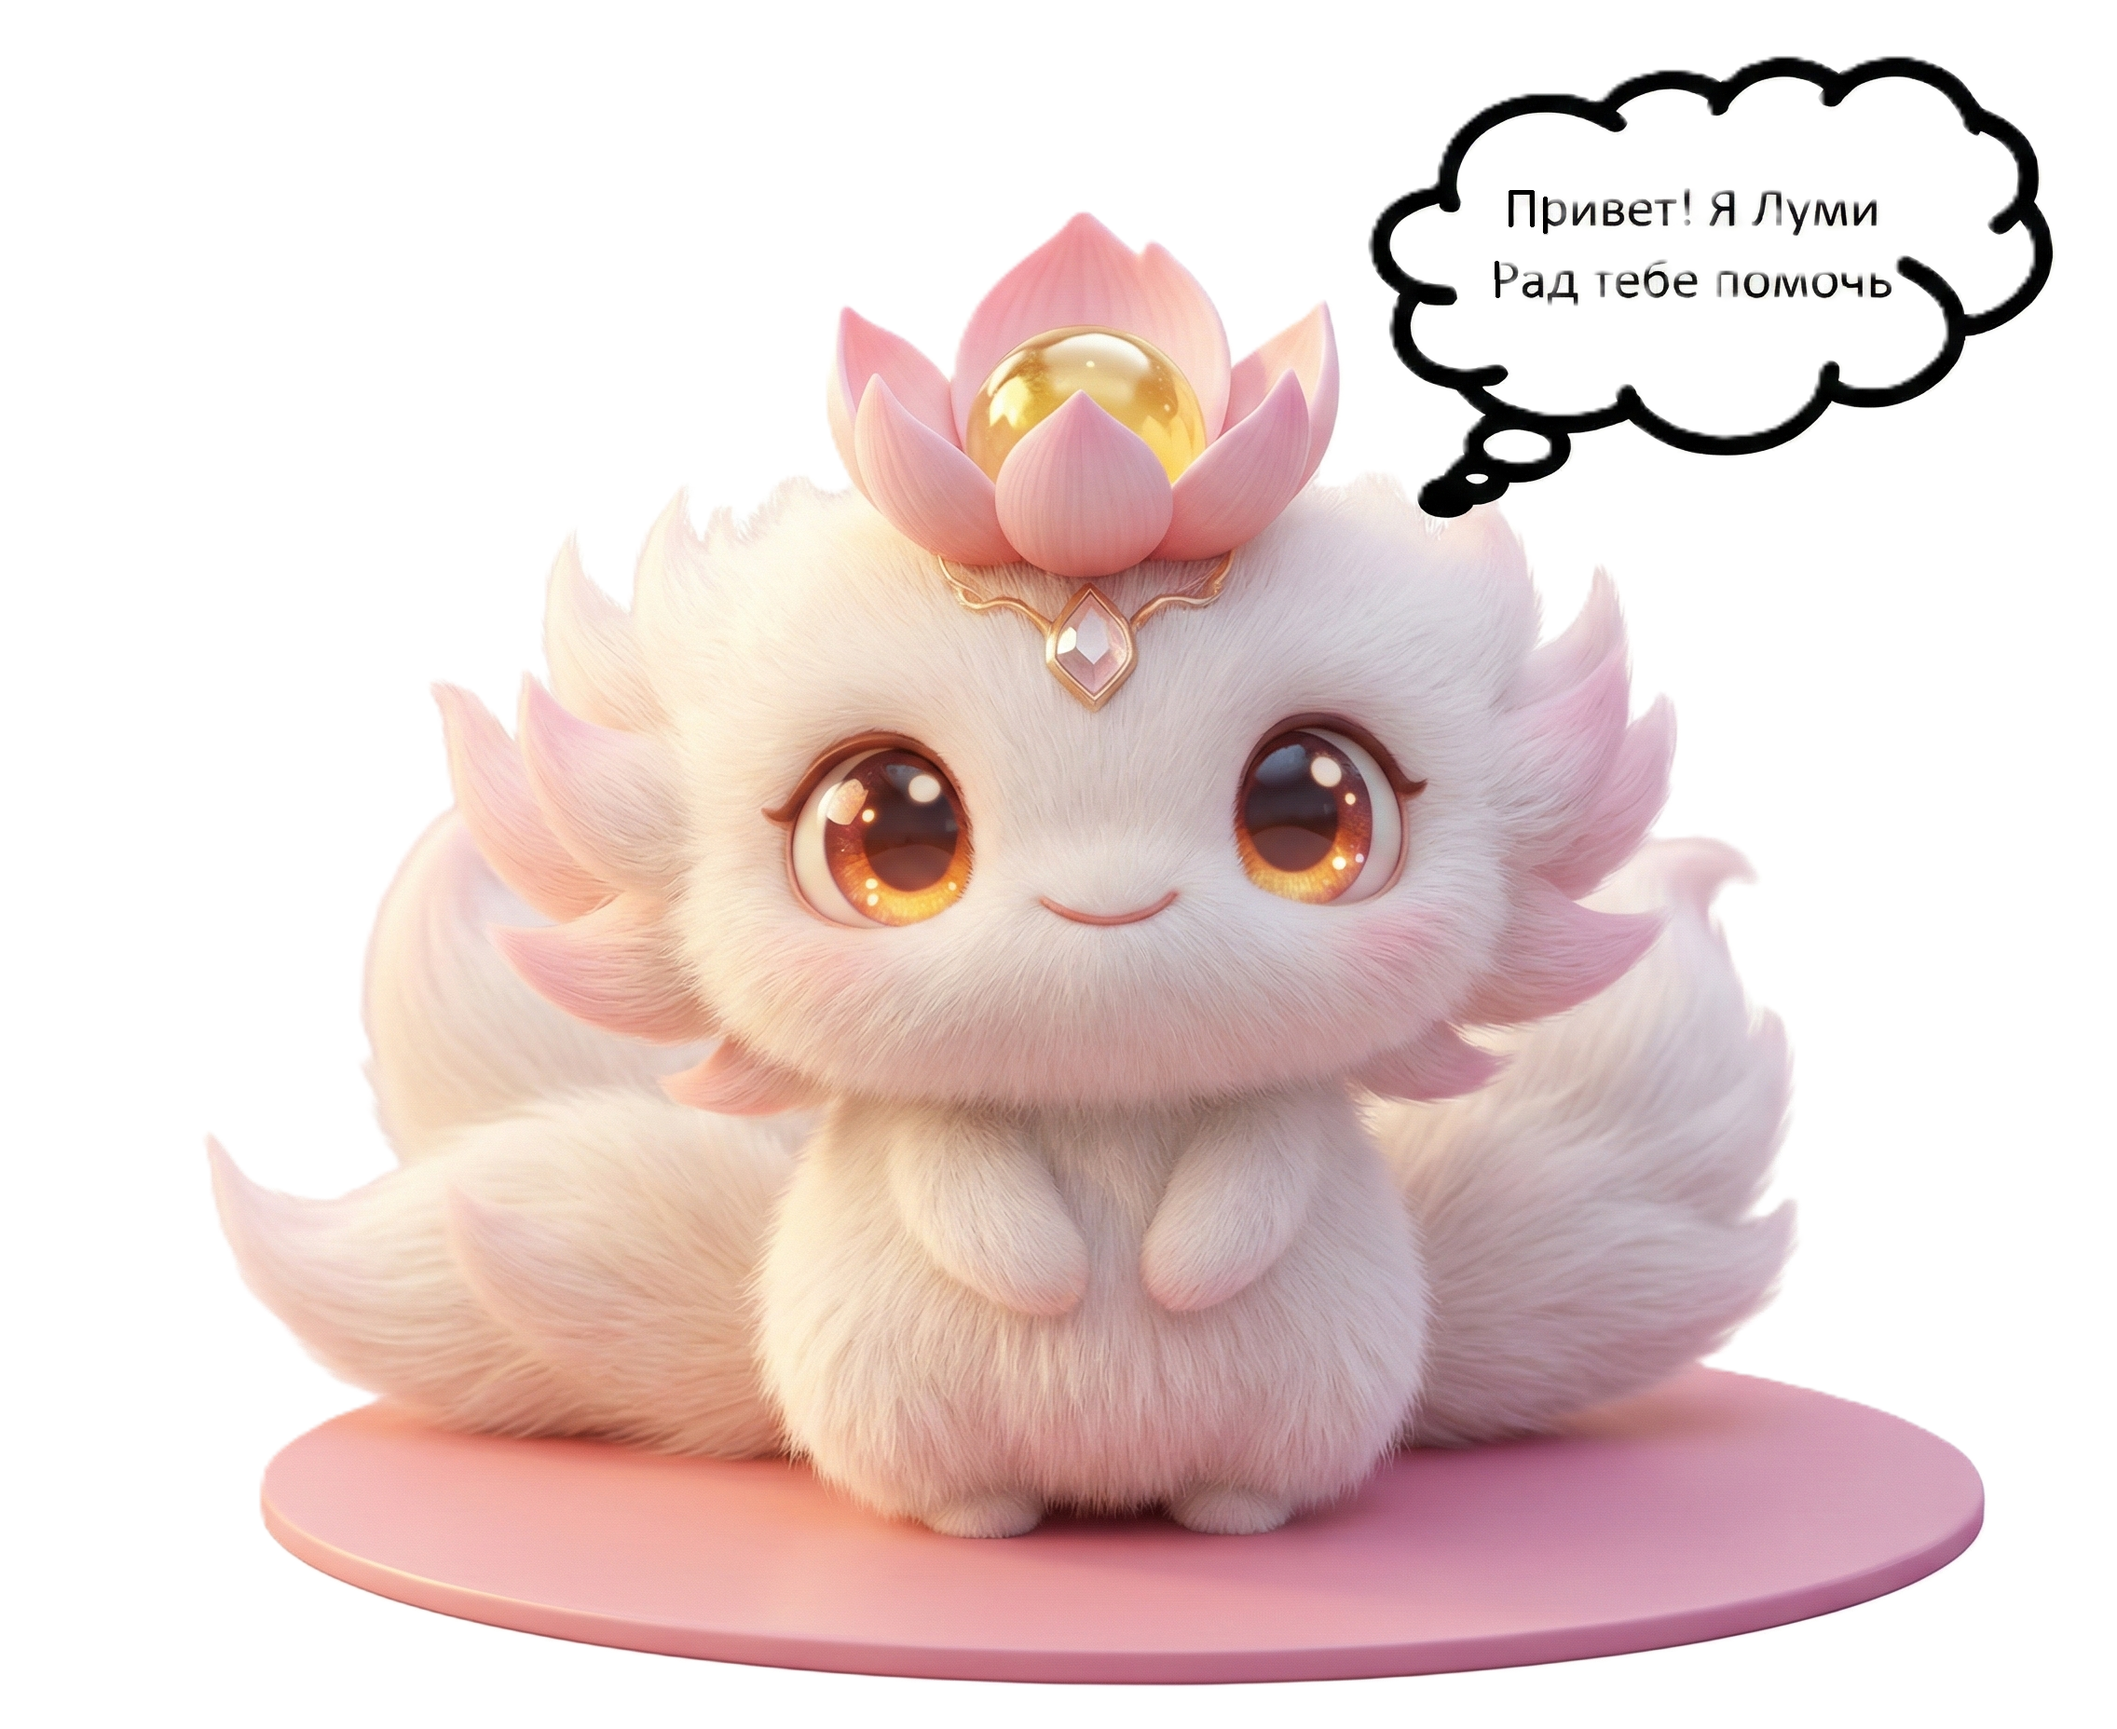
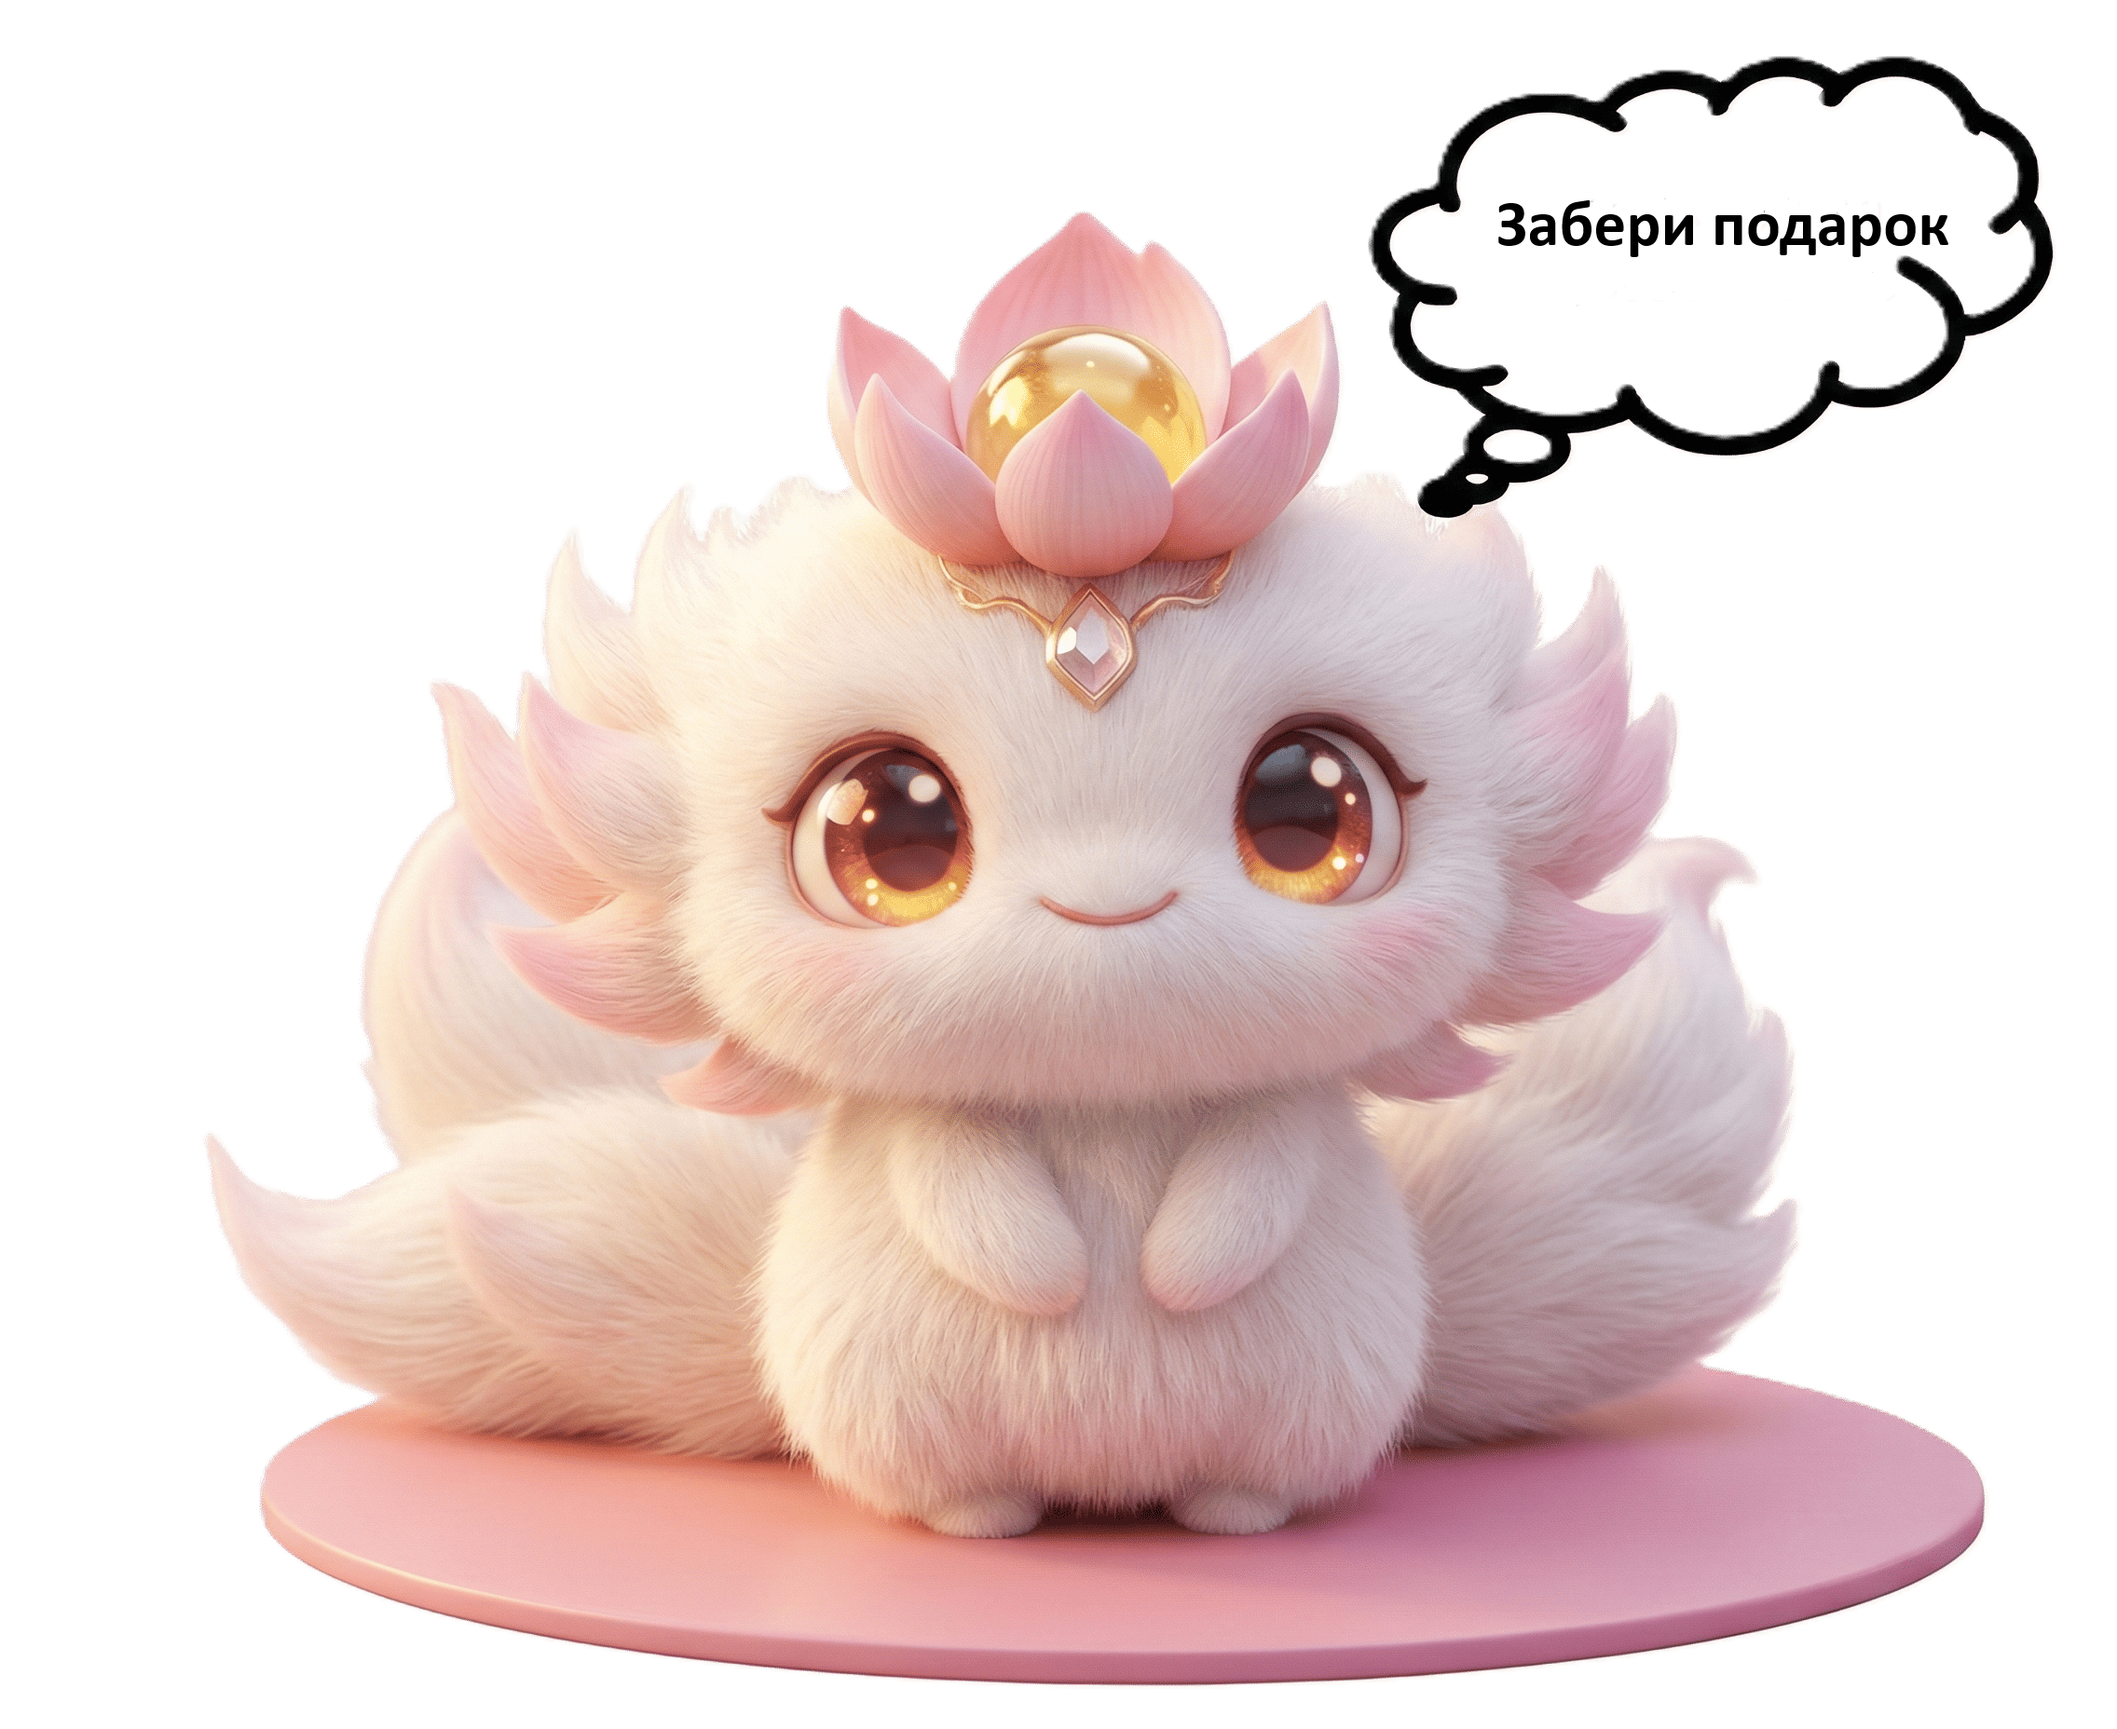
resize images + add effect for floating mascot

diff --git a/style.css b/style.css
@@ -159,20 +159,106 @@ img { max-width: 100%; display: block; }
 .footer__socials a { display: inline-flex; width: 40px; height: 40px; background: rgba(255,255,255,0.1); border-radius: 50%; align-items: center; justify-content: center; margin-right: 10px; color: white; font-size: 1.2rem; }
 .footer__socials a:hover { background: var(--primary); }
 
-/* === 10. ПЛАВАЮЩИЙ МАСКОТ === */
+/* === 10. ПЛАВАЮЩИЙ МАСКОТ (Обновленный) === */
 .floating-mascot-btn {
-    position: fixed; bottom: 30px; right: 30px; z-index: 999;
-    width: 80px; height: 80px; 
+    position: fixed;
+    bottom: 30px;
+    right: 30px;
+    z-index: 999;
+    /* УВЕЛИЧЕННЫЙ РАЗМЕР для ПК */
+    width: 130px;
+    height: 130px;
+    /* Базовая анимация плавания */
     animation: mascot-float 3s ease-in-out infinite;
-    transition: 0.3s;
+    transition: transform 0.3s;
+    /* Убираем стандартное подчеркивание ссылки */
+    text-decoration: none; 
 }
-.floating-mascot-btn:hover { transform: scale(1.1); }
-.mascot-btn-content { position: relative; width: 100%; height: 100%; }
+
+/* Увеличение при наведении (только если не идет анимация клика) */
+.floating-mascot-btn:hover:not(.mascot-clicking) {
+    transform: scale(1.05) translateY(-5px);
+}
+
+.mascot-btn-content {
+    position: relative;
+    width: 100%;
+    height: 100%;
+    display: flex;
+    align-items: center;
+    justify-content: center;
+}
+
+/* --- Эффект "Взрывной волны" при клике --- */
+/* Создаем невидимый круг позади маскота */
+.mascot-btn-content::after {
+    content: '';
+    position: absolute;
+    top: 50%;
+    left: 50%;
+    width: 80%;
+    height: 80%;
+    background: radial-gradient(circle, rgba(255, 255, 255, 0.9) 0%, rgba(37, 211, 102, 0) 70%);
+    border-radius: 50%;
+    transform: translate(-50%, -50%) scale(0); /* Сначала он сжат в ноль */
+    opacity: 1;
+    z-index: -1; /* За маскотом */
+    pointer-events: none;
+}
+
 .mascot-btn-img {
-    width: 100%; height: 100%; object-fit: contain; 
-    filter: drop-shadow(0 5px 15px rgba(37, 211, 102, 0.4));
+    width: 100%;
+    height: 100%;
+    object-fit: contain;
+    /* Зеленая тень */
+    filter: drop-shadow(0 5px 15px rgba(37, 211, 102, 0.5));
+    transition: filter 0.3s;
 }
-@keyframes mascot-float { 0%, 100% { transform: translateY(0); } 50% { transform: translateY(-10px); } }
+
+/* --- Анимация плавания (вверх-вниз) --- */
+@keyframes mascot-float {
+    0%, 100% { transform: translateY(0); }
+    50% { transform: translateY(-12px); }
+}
+
+/* --- Анимация тряски при клике ("Открытие подарка") --- */
+@keyframes gift-shake {
+    0% { transform: rotate(0deg) scale(1); }
+    25% { transform: rotate(-8deg) scale(1.05); }
+    50% { transform: rotate(8deg) scale(1.05); }
+    75% { transform: rotate(-5deg) scale(1.05); }
+    100% { transform: rotate(0deg) scale(1); }
+}
+
+/* === Класс, который добавляется JS при клике === */
+.floating-mascot-btn.mascot-clicking {
+    /* Применяем анимацию тряски, перекрывая плавание */
+    animation: gift-shake 0.5s ease-in-out forwards;
+}
+
+/* При клике "взрываем" волну */
+.floating-mascot-btn.mascot-clicking .mascot-btn-content::after {
+    transition: transform 0.6s ease-out, opacity 0.6s ease-out;
+    transform: translate(-50%, -50%) scale(2.5); /* Увеличивается в 2.5 раза */
+    opacity: 0; /* И исчезает */
+}
+
+/* При клике делаем тень ярче */
+.floating-mascot-btn.mascot-clicking .mascot-btn-img {
+     filter: drop-shadow(0 0 25px rgba(37, 211, 102, 0.8), 0 0 50px rgba(255, 255, 255, 0.5));
+}
+
+
+/* === АДАПТИВ ДЛЯ МОБИЛЬНЫХ === */
+@media screen and (max-width: 768px) {
+    .floating-mascot-btn {
+        /* На телефоне чуть меньше, чтобы не мешал */
+        width: 100px;
+        height: 100px;
+        bottom: 20px;
+        right: 20px;
+    }
+}
 
 /* === 11. АДАПТИВНОСТЬ (MOBILE FIX) === */
 @media screen and (max-width: 968px) {
@@ -332,7 +418,7 @@ img { max-width: 100%; display: block; }
     left: 5%;
     width: 120px; /* Размер маскота */
     height: auto;
-    z-index: 0; /* Чтобы был под текстом, если наедет */
+    z-index: 99; /* Чтобы был под текстом, если наедет */
     opacity: 0.9;
     pointer-events: none; /* Чтобы не мешал кликам */
 }

diff --git a/script.js b/script.js
@@ -153,3 +153,29 @@ document.addEventListener('DOMContentLoaded', () => {
         });
     }
 });
+
+/* === АНИМАЦИЯ КЛИКА ПО МАСКОТУ ("ПОДАРОК") === */
+document.addEventListener('DOMContentLoaded', () => {
+    const mascotBtn = document.querySelector('.floating-mascot-btn');
+
+    if (mascotBtn) {
+        mascotBtn.addEventListener('click', function(e) {
+            // 1. Отменяем мгновенный переход по ссылке
+            e.preventDefault();
+
+            const link = this.getAttribute('href');
+
+            // 2. Добавляем класс, запускающий CSS-анимацию
+            this.classList.add('mascot-clicking');
+
+            // 3. Ждем окончания анимации (600 мс) и переходим
+            setTimeout(() => {
+                // Открываем WhatsApp в новой вкладке
+                window.open(link, '_blank');
+                
+                // Убираем класс, чтобы если вернутся на вкладку, маскот был в норме
+                this.classList.remove('mascot-clicking');
+            }, 600);
+        });
+    }
+});
